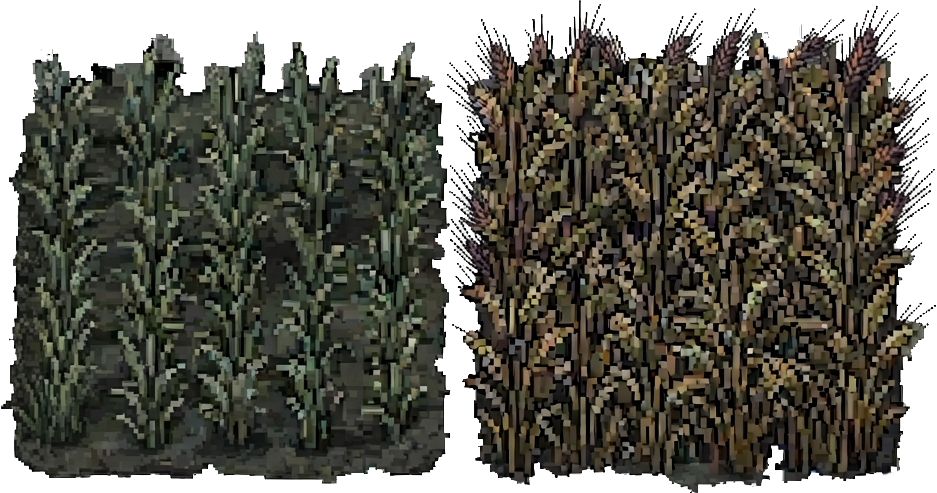
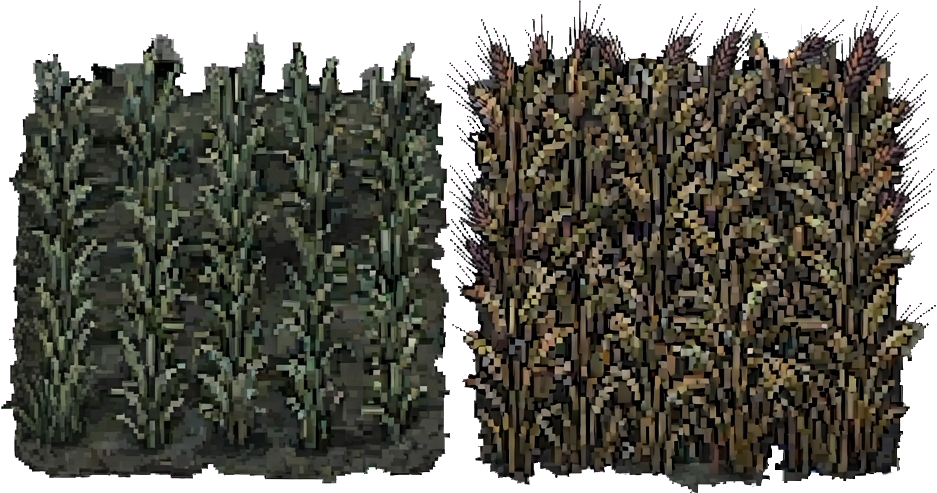
fix: sprites fixes — orge sprites, liquidate button, auth background
- add orge growing/ready sprites and wire dedicated sprite for orge
- liquidate (propaganda) button uses liquidate-on sprite with armed state
- auth screen gets orchestra background
- stats and leaderboard sections expanded by default
- refresh seigle sprites

diff --git a/app/globals.css b/app/globals.css
@@ -327,23 +327,48 @@ input{
 .full-btn{width:100%; margin-top:6px;}
 .propaganda-btn{
   font-family:'Stalinist One','Courier New',monospace;
-  display:flex; flex-direction:column; align-items:center; gap:8px;
+  display:flex; flex-direction:column; align-items:center; justify-content:center; gap:0;
   padding:18px 16px;
-  background:var(--alert);
-  color:#fff;
-  border:2px solid var(--gold);
-  box-shadow:inset 0 0 0 3px rgba(0,0,0,0.25);
+  min-height:96px;
+  background-image:url('/sprites/liquidate-on.webp');
+  background-size:100% 100%;
+  background-repeat:no-repeat;
+  background-color:transparent;
+  color:var(--paper);
+  border:none;
   position:relative;
 }
+.propaganda-btn:hover:not(:disabled){
+  color:var(--paper);
+  background-image:url('/sprites/liquidate-on.webp');
+  background-size:100% 100%; background-repeat:no-repeat; background-position:center;
+  filter:brightness(1.1);
+}
+.propaganda-btn:active:not(:disabled){
+  color:var(--paper);
+  background-image:url('/sprites/liquidate-on.webp');
+  background-size:100% 100%; background-repeat:no-repeat; background-position:center;
+  transform:scale(0.96);
+  filter:brightness(1.2);
+}
 .propaganda-btn-main{
-  font-size:0.92rem; letter-spacing:0.045em; line-height:1.5;
+  font-size:0.92rem; letter-spacing:0.045em; line-height:1.5; margin-bottom:10px;
 }
 .propaganda-btn-price{
   font-family:'Courier New',monospace; font-weight:700; font-size:0.8rem;
-  color:#fff; opacity:0.85; letter-spacing:0.05em;
+  color:var(--paper); opacity:0.85; letter-spacing:0.08em;
+  padding-top:8px; border-top:1px solid rgba(214,205,188,0.4); width:100%; text-align:center;
 }
-.propaganda-btn.armed{border-color:#fff; background:#7c332a;}
-.propaganda-btn.armed .propaganda-btn-price{opacity:1;}
+.propaganda-btn.armed{
+  filter:brightness(0.65) saturate(1.3);
+}
+.propaganda-btn.armed:hover:not(:disabled){
+  color:var(--paper);
+  background-image:url('/sprites/liquidate-on.webp');
+  background-size:100% 100%; background-repeat:no-repeat; background-position:center;
+  filter:brightness(0.72) saturate(1.3);
+}
+.propaganda-btn.armed .propaganda-btn-price{border-top-color:rgba(214,205,188,0.7); opacity:1;}
 
 .upgrade{margin:10px 0; padding-bottom:10px; border-bottom:1px dashed var(--paper-line);}
 .upgrade:last-child{border-bottom:none;}
@@ -382,6 +407,8 @@ input{
 
 .auth-wrap{
   min-height:100vh; display:flex; align-items:center; justify-content:center; padding:20px;
+  background-image:linear-gradient(rgba(10,9,8,0.72), rgba(10,9,8,0.72)), url('/sprites/orchestra-bg.jpg');
+  background-size:cover; background-position:center;
 }
 .auth-card{
   background:var(--paper); color:var(--ink); padding:32px 30px; border-radius:6px;

diff --git a/app/page.js b/app/page.js
@@ -1696,7 +1696,7 @@ function Game({ username, onLoggedOut }) {
         </div>
 
         <div className="ledger panel-col-4">
-          <Section title="Statistiques" defaultCollapsed>
+          <Section title="Statistiques">
             <p className="field-caption" style={{ color: 'var(--ink-soft)' }}>
               Les chiffres bruts pour optimiser ta stratégie — tout ce qui compte pour battre les
               autres joueurs à temps de jeu égal.
@@ -1761,7 +1761,7 @@ function Game({ username, onLoggedOut }) {
             </div>
           </Section>
           <hr />
-          <Section title="Classement des Stakhanovistes du District" defaultCollapsed className="classement-section">
+          <Section title="Classement des Stakhanovistes du District" className="classement-section">
             <ul className="leaderboard">
               {leaderboard.length === 0 && <li className="muted">Aucun score enregistré pour l&rsquo;instant.</li>}
               {leaderboard.map((entry, idx) => (
@@ -1846,7 +1846,7 @@ function Plot({ plot, cost, money, growTime, seedCost, seedEmoji, preview, flash
   // quelle que soit l'espèce. Les cultures absentes de cette liste
   // retombent entièrement sur les sprites blé génériques en attendant
   // leurs propres visuels.
-  const dedicatedSprite = plot.crop === 'pdt' || plot.crop === 'seigle' ? plot.crop : null;
+  const dedicatedSprite = ['pdt', 'seigle', 'orge'].includes(plot.crop) ? plot.crop : null;
   if (plot.state === 'growing') {
     const progress = Math.min(1, (Date.now() - plot.plantedAt) / (growTime * 1000));
     const sprite = progress < 0.5 ? 'field-sown' : (dedicatedSprite ? `${dedicatedSprite}-growing` : 'field-growing');
